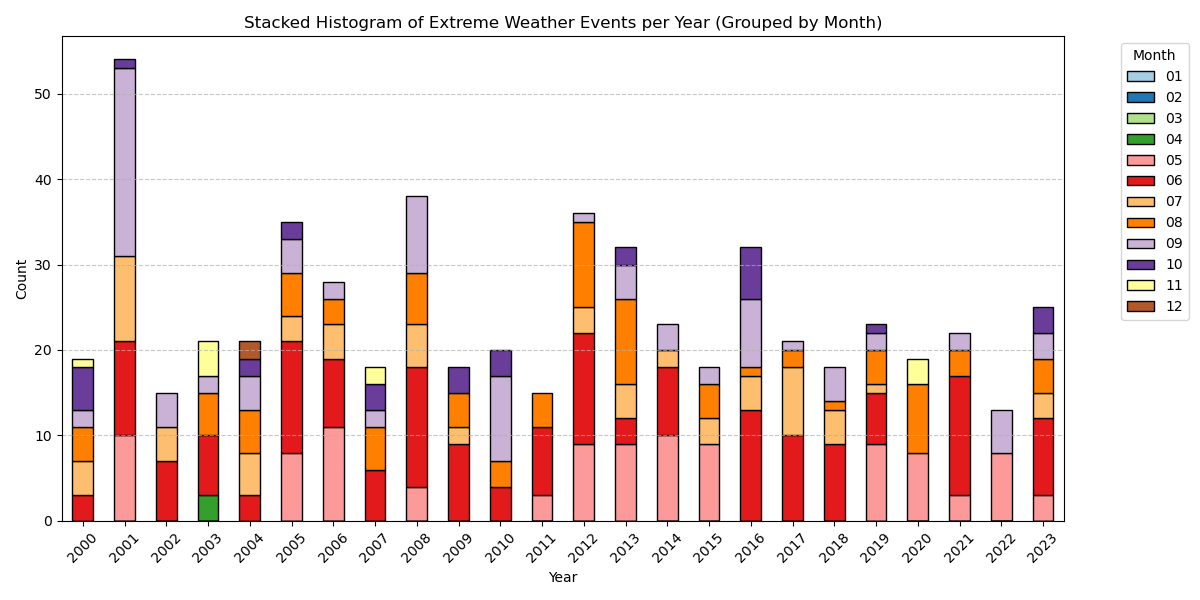
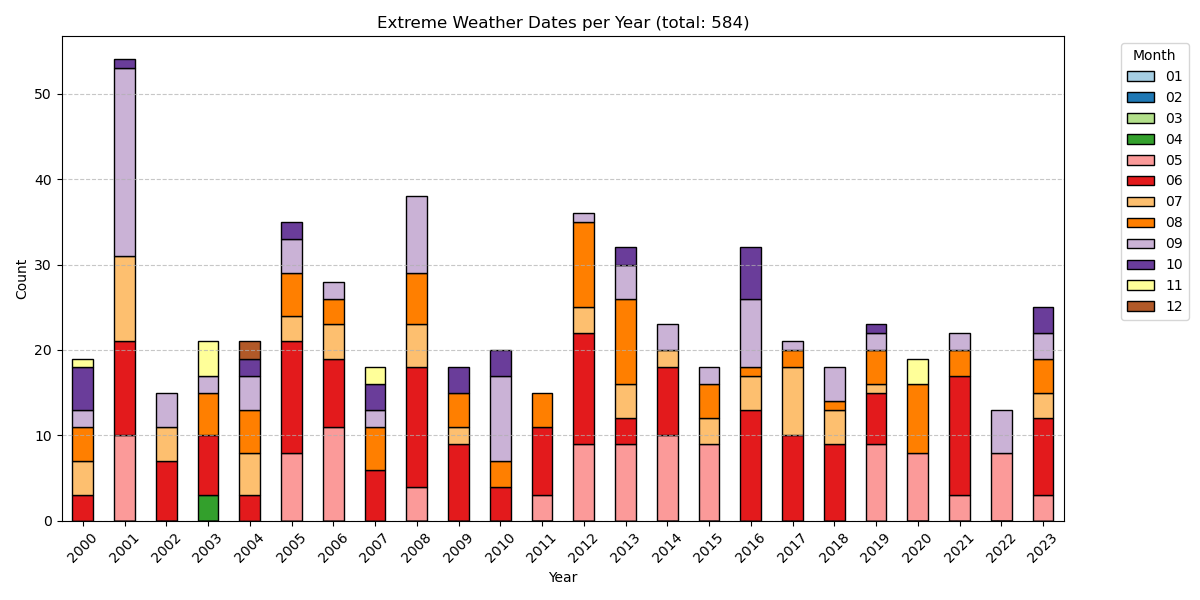
Display total number in extreme dates histogram.

Changed region(s): [[0.185, 0.03, 0.74, 0.06]]

diff --git a/helpers/filter_zarr.py b/helpers/filter_zarr.py
@@ -103,7 +103,7 @@ def plot_dates(dates: List[str], output_path: str) -> None:
 
     plt.xlabel("Year")
     plt.ylabel("Count")
-    plt.title("Stacked Histogram of Extreme Weather Events per Year (Grouped by Month)")
+    plt.title(f"Extreme Weather Dates per Year (total: {len(dates)})")
     plt.xticks(rotation=45)
     plt.legend(title="Month", bbox_to_anchor=(1.05, 1), loc="upper left")
     plt.grid(axis="y", linestyle="--", alpha=0.7)
